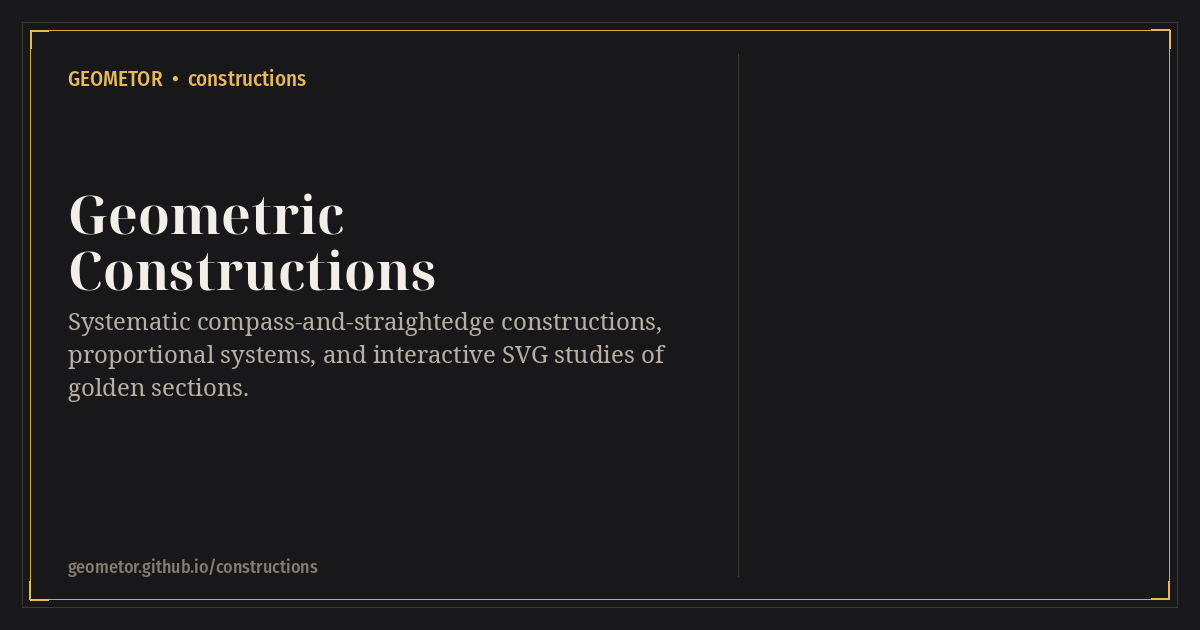
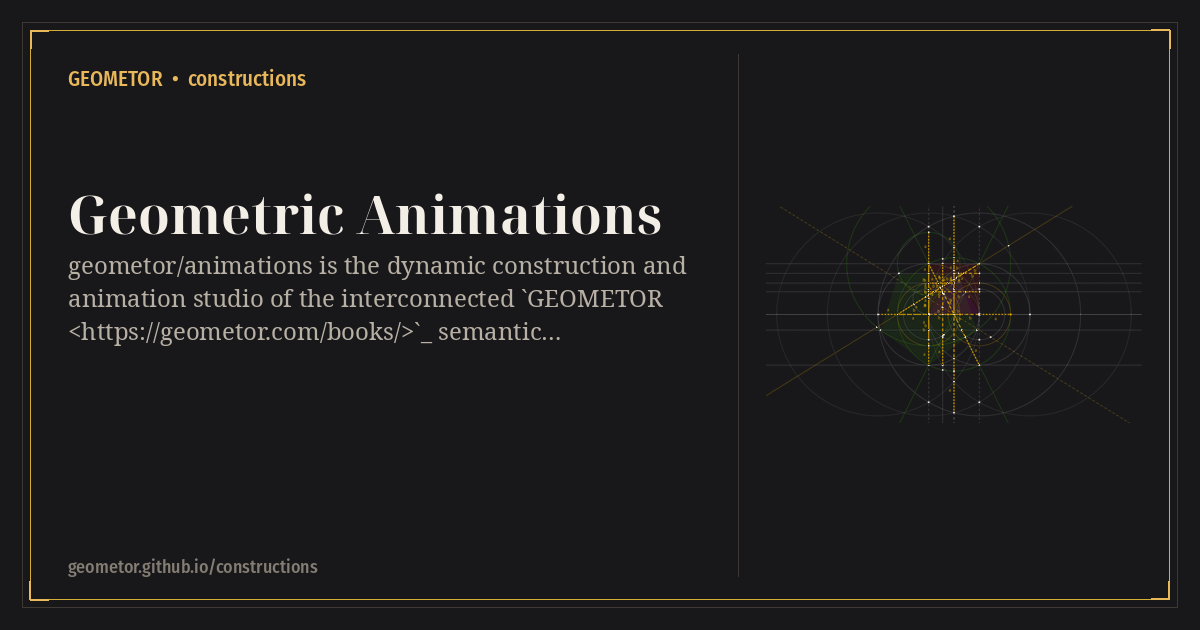
docs: add construction hero images, elevate English titles with native title tracks, and standardize track menus

Changed region(s): [[0.0617, 0.3016, 0.5858, 0.573], [0.7092, 0.3619, 0.8633, 0.6032], [0.0617, 0.6032, 0.2158, 0.6333]]

diff --git a/README.rst b/README.rst
@@ -3,6 +3,11 @@ GEOMETOR • animations
 
 **Visit the Online Archive:** https://geometor.github.io/animations/
 
+.. image:: docsrc/_static/hero.png
+   :alt: GEOMETOR • constructions featured geometric construction
+   :target: https://geometor.github.io/animations/
+   :align: center
+
 **Geometric Animations • Proportional golden-section studies & root lattices**
 
 Mission
